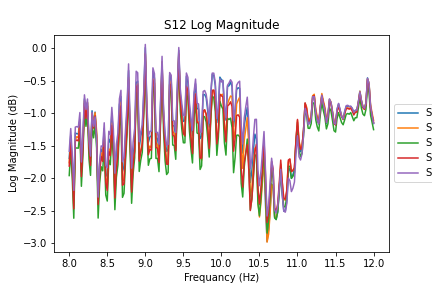
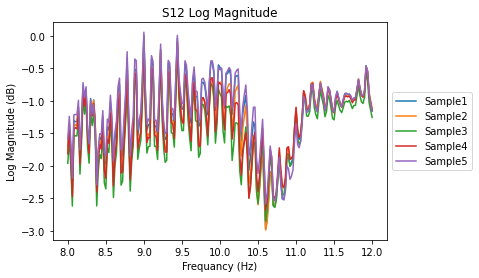
Add files via upload

Changed region(s): [[0.0, 0.0288, 1.0, 0.9784]]

diff --git a/8%CF/Vertical_Build_50%_8%CF/main.py b/8%CF/Vertical_Build_50%_8%CF/main.py
@@ -122,7 +122,7 @@ for i in range(N):
     if i == 16:
         plt.plot(x, mag, label = 'Sample4')
         plt.legend(loc='center left', bbox_to_anchor=(1, 0.5))
-    plt.savefig('S11.png')
+    plt.savefig('S11.png', bbox_inches='tight')
         
     plt.title(name_dict[i])
     fig = plt.figure(11)
@@ -152,7 +152,7 @@ for i in range(N):
         plt.plot(x, SER, label = 'Sample5')
 #        plt.plot(x, SER_Tunnel, label = 'tunnel 4')
         plt.legend(loc='center left', bbox_to_anchor=(1, 0.5))
-        plt.savefig('SER.png')
+    plt.savefig('SER.png', bbox_inches='tight')
     
 for i in range(N):
     if i == 0:
@@ -212,7 +212,7 @@ for i in range(N):
     if i == 17:
         plt.plot(x, mag, label = 'Sample5')
         plt.legend(loc='center left', bbox_to_anchor=(1, 0.5))
-        plt.savefig('S21.png')
+    plt.savefig('S21.png', bbox_inches='tight')
         
 S2 = []    
 for i in range(N):
@@ -277,7 +277,7 @@ for i in range(N):
     if i == 18:
         plt.plot(x, mag, label = 'Sample5')
         plt.legend(loc='center left', bbox_to_anchor=(1, 0.5))
-        plt.savefig('S12.png')
+    plt.savefig('S12.png',  bbox_inches='tight')
     plt.title(name_dict[i])
     fig = plt.figure(9)
     plt.title('Total SE')
@@ -302,11 +302,11 @@ for i in range(N):
     if i == 14:
         plt.plot(x, sample, label = 'Sample4')
         plt.legend(loc='center left', bbox_to_anchor=(1, 0.5))
-    if i == 18:
+#    if i == 18:
 #        plt.plot(x, Total_SE, label = 'Sample4')
-        plt.plot(x, sample, label = 'Sample 5')
-        plt.legend(loc='center left', bbox_to_anchor=(1, 0.5))
-        plt.savefig('Total_SE.png')
+#        plt.plot(x, sample, label = 'Sample 5')
+#        plt.legend(loc='center left', bbox_to_anchor=(1, 0.5))
+    plt.savefig('Total_SE.png',  bbox_inches='tight')
 
 for i in range(N):
     if i == 0:
@@ -367,7 +367,7 @@ for i in range(N):
     if i == 19:
         plt.plot(x, mag, label = 'Sample 5')
         plt.legend(loc='center left', bbox_to_anchor=(1, 0.5))
-        plt.savefig('S22.png')
+    plt.savefig('S22.png', bbox_inches='tight')
 #plt.show()
 
 
@@ -457,7 +457,7 @@ plt.plot(x, sample5, label = 'Sample 5')
 plt.legend(loc='center left', bbox_to_anchor=(1, 0.5))
 #print(S1, 'S11')
 #print(S2, 'S22')
-plt.savefig('SEA.png')
+plt.savefig('SEA.png', bbox_inches='tight')
 
 
 
